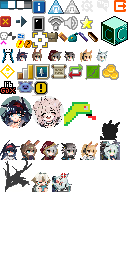
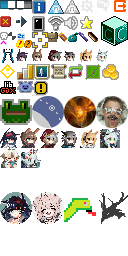
정제금속

Changed region(s): [[0.0, 0.375, 1.0, 0.875], [0.7812, 0.75, 1.0, 0.875], [0.5, 0.75, 0.75, 0.875]]

diff --git a/Arrrknights/core/src/main/java/com/shatteredpixel/shatteredpixeldungeon/ui/Icons.java b/Arrrknights/core/src/main/java/com/shatteredpixel/shatteredpixeldungeon/ui/Icons.java
@@ -87,6 +87,9 @@ public enum Icons {
 	CUBE_CODE,
 	PURIGRO,
 	ARCNOR,
+	ARKPD,
+	NAMSEK,
+	MIZQ,
 
 	BLAZE,
 	AMIYA,
@@ -120,13 +123,13 @@ public enum Icons {
 			icon.frame( icon.texture.uvRect( 64, 0, 80, 14 ) );
 			break;
 		case PREFS:
-			icon.frame( icon.texture.uvRect( 80, 0, 94, 14 ) );
+			icon.frame( icon.texture.uvRect( 80, 0, 94, 12 ) );
 			break;
 		case LANGS:
-			icon.frame( icon.texture.uvRect( 96, 0, 110, 11 ) );
+			icon.frame( icon.texture.uvRect( 96, 0, 110, 12 ) );
 			break;
 		case EXIT:
-			icon.frame( icon.texture.uvRect( 112, 0, 127, 11 ) );
+			icon.frame( icon.texture.uvRect( 112, 0, 127, 12 ) );
 			break;
 		case CLOSE:
 			icon.frame( icon.texture.uvRect( 0, 16, 11, 27 ) );
@@ -184,7 +187,7 @@ public enum Icons {
 			break;
 			
 		case DEPTH:
-			icon.frame( icon.texture.uvRect( 0, 48, 13, 64 ) );
+			icon.frame( icon.texture.uvRect( 0, 48, 14, 64 ) );
 			break;
 		case WARRIOR:
 			icon.frame( icon.texture.uvRect( 16, 48, 32, 61 ) );
@@ -202,34 +205,6 @@ public enum Icons {
 				icon.frame( icon.texture.uvRect( 96, 48, 112, 61 ) );
 				break;
 
-			case BLAZE:
-				icon.frame(icon.texture.uvRect(0, 140, 20, 160));
-				break;
-			case AMIYA:
-				icon.frame(icon.texture.uvRect(20, 140, 40, 160));
-				break;
-			case P_RED:
-				icon.frame(icon.texture.uvRect(40, 140, 60, 160));
-				break;
-			case GREY:
-				icon.frame(icon.texture.uvRect(60, 140, 80, 160));
-				break;
-			case NEARL:
-				icon.frame(icon.texture.uvRect(80, 140, 100, 160));
-				break;
-			case ROSEMARI:
-				icon.frame(icon.texture.uvRect(100, 140, 120, 160));
-				break;
-
-			case HYPER:
-				icon.frame(icon.texture.uvRect(0, 160, 32, 192));
-				icon.scale.set(PixelScene.align(0.49f));
-				break;
-			case MONNY:
-				icon.frame(icon.texture.uvRect(32, 172, 52, 192));
-				break;
-
-
 			case ENTER:
 			icon.frame( icon.texture.uvRect( 0, 64, 16, 80 ) );
 			break;
@@ -246,8 +221,7 @@ public enum Icons {
 			icon.frame( icon.texture.uvRect( 68, 64, 83, 79 ) );
 			break;
 		case SHPX:
-			icon.frame( icon.texture.uvRect( 0, 96, 32, 128 ) );
-			icon.scale.set(PixelScene.align(0.49f));
+			icon.frame( icon.texture.uvRect( 85, 64, 101, 80 ) );
 			break;
 		case GOLD:
 			icon.frame( icon.texture.uvRect( 102, 64, 119, 80 ) );
@@ -263,31 +237,70 @@ public enum Icons {
 			icon.frame(icon.texture.uvRect(34, 81, 48, 95));
 			break;
 
-			case PATRIOT:
-				icon.frame(icon.texture.uvRect(48, 80, 64, 96));
+			case CUBE_CODE:
+				icon.frame( icon.texture.uvRect( 101, 16, 128, 46 ) );
+				icon.scale.set(PixelScene.align(0.49f));
 				break;
 
 
-		case ALEKS:
-			icon.frame( icon.texture.uvRect( 32, 96, 64, 128 ) );
-			icon.scale.set(PixelScene.align(0.49f));
-			break;
-		case CHARLIE:
-			icon.frame( icon.texture.uvRect( 64, 96, 96, 128 ) );
-			icon.scale.set(PixelScene.align(0.49f));
-			break;
-		case ARCNOR:
-			icon.frame( icon.texture.uvRect( 64, 96, 96, 128 ) );
-			icon.scale.set(PixelScene.align(0.49f));
-			break;
-		case PURIGRO:
-			icon.frame( icon.texture.uvRect( 96, 96, 128, 128 ) );
-			icon.scale.set(PixelScene.align(0.49f));
-			break;
-		case CUBE_CODE:
-			icon.frame( icon.texture.uvRect( 101, 16, 128, 46 ) );
-			icon.scale.set(PixelScene.align(0.49f));
-			break;
+
+			case ALEKS:
+				icon.frame( icon.texture.uvRect( 0, 96, 32, 128 ) );
+				icon.scale.set(PixelScene.align(0.49f));
+				break;
+			case CHARLIE:
+				icon.frame( icon.texture.uvRect( 32, 96, 64, 128 ) );
+				icon.scale.set(PixelScene.align(0.49f));
+				break;
+			case ARCNOR:
+				icon.frame( icon.texture.uvRect( 64, 96, 96, 128 ) );
+				icon.scale.set(PixelScene.align(0.49f));
+				break;
+			case PURIGRO:
+				icon.frame( icon.texture.uvRect( 96, 96, 128, 128 ) );
+				icon.scale.set(PixelScene.align(0.49f));
+				break;
+			//타이틀 이미지들 ↓
+			case ARKPD:
+				icon.frame( icon.texture.uvRect( 0, 192, 32, 224 ) );
+				icon.scale.set(PixelScene.align(0.49f));
+				break;
+			case NAMSEK:
+				icon.frame( icon.texture.uvRect( 32, 192, 64, 224 ) );
+				icon.scale.set(PixelScene.align(0.49f));
+				break;
+			case MIZQ:
+				icon.frame( icon.texture.uvRect( 64, 192, 96, 224 ) );
+				icon.scale.set(PixelScene.align(0.49f));
+				break;
+			case HYPER:
+				icon.frame(icon.texture.uvRect(96, 192, 128, 224));
+				icon.scale.set(PixelScene.align(0.49f));
+				break;
+
+				//캐릭터 선택창 이미지
+			case BLAZE:
+				icon.frame(icon.texture.uvRect(0, 128, 20, 148));
+				break;
+			case AMIYA:
+				icon.frame(icon.texture.uvRect(20, 128, 40, 148));
+				break;
+			case P_RED:
+				icon.frame(icon.texture.uvRect(40, 128, 60, 148));
+				break;
+			case GREY:
+				icon.frame(icon.texture.uvRect(60, 128, 80, 148));
+				break;
+			case NEARL:
+				icon.frame(icon.texture.uvRect(80, 128, 100, 148));
+				break;
+			case ROSEMARI:
+				icon.frame(icon.texture.uvRect(100, 128, 120, 148));
+				break;
+			case MONNY:
+				icon.frame(icon.texture.uvRect(0, 148, 20, 168));
+				break;
+
 
 
 		}

diff --git a/Arrrknights/core/src/main/java/com/shatteredpixel/shatteredpixeldungeon/scenes/AboutScene.java b/Arrrknights/core/src/main/java/com/shatteredpixel/shatteredpixeldungeon/scenes/AboutScene.java
@@ -64,7 +64,7 @@ public class AboutScene extends PixelScene {
 		shpxLink += "&utm_medium=about_page";
 		shpxLink += "&utm_campaign=ingame_link";
 
-		CreditsBlock shpx = new CreditsBlock(true, Window.TITLE_COLOR,
+		CreditsBlock shpx = new CreditsBlock(true, Window.SHPX_COLOR,
 				"Shattered Pixel Dungeon",
 				Icons.SHPX.get(),
 				"Developed by: _Evan Debenham_\nBased on Pixel Dungeon's open source",
@@ -73,7 +73,7 @@ public class AboutScene extends PixelScene {
 		shpx.setRect((w - fullWidth)/2f, 6, 120, 0);
 		content.add(shpx);
 
-		CreditsBlock alex = new CreditsBlock(false, Window.TITLE_COLOR,
+		CreditsBlock alex = new CreditsBlock(false, Window.SHPX_COLOR,
 				"Hero Art & Design:",
 				Icons.ALEKS.get(),
 				"Aleksandar Komitov",
@@ -87,7 +87,7 @@ public class AboutScene extends PixelScene {
 		}
 		content.add(alex);
 
-		CreditsBlock charlie = new CreditsBlock(false, Window.TITLE_COLOR,
+		CreditsBlock charlie = new CreditsBlock(false, Window.SHPX_COLOR,
 				"Sound Effects:",
 				Icons.CHARLIE.get(),
 				"Charlie",
@@ -99,9 +99,9 @@ public class AboutScene extends PixelScene {
 
 
 
-		CreditsBlock rogu = new CreditsBlock(true, Window.TITLE_COLOR,
+		CreditsBlock rogu = new CreditsBlock(true, Window.ARKPD_COLOR,
 				"Tomorrow's RogueNights",
-				Icons.SHPX.get(),
+				Icons.ARKPD.get(),
 				"Developed by: _Team Rosemari_\nBased on Shattered Pixel Dungeon's open source",
 				"",
 				null);
@@ -109,9 +109,9 @@ public class AboutScene extends PixelScene {
 		content.add(rogu);
 
 
-		CreditsBlock nam = new CreditsBlock(false, Window.TITLE_COLOR,
+		CreditsBlock nam = new CreditsBlock(false, Window.ARKPD_COLOR,
 				"Hero Art & Design:",
-				Icons.ALEKS.get(),
+				Icons.NAMSEK.get(),
 				"NamSek",
 				"pixiv.net",
 				"https://www.pixiv.net/users/14086167");
@@ -123,9 +123,9 @@ public class AboutScene extends PixelScene {
 		}
 		content.add(nam);
 
-		CreditsBlock mizq = new CreditsBlock(false, Window.TITLE_COLOR,
+		CreditsBlock mizq = new CreditsBlock(false, Window.SHPX_COLOR,
 				"Programming:",
-				Icons.CHARLIE.get(),
+				Icons.MIZQ.get(),
 				"mizq4482",
 				"blog",
 				"https://mizq4482.tistory.com/");
@@ -151,7 +151,6 @@ public class AboutScene extends PixelScene {
 		content.add(hyper);
 
 		addLine(hyper.top() - 4, content);
-
 
 		//*** libGDX Credits ***
 
@@ -180,7 +179,7 @@ public class AboutScene extends PixelScene {
 
 		CreditsBlock arcnor = new CreditsBlock(false, GDX_COLOR,
 				"Pixel Dungeon GDX:",
-				Icons.LIBGDX.get(),
+				Icons.ARCNOR.get(),
 				"Edu García",
 				"twitter.com/arcnor",
 				"https://twitter.com/arcnor");
@@ -194,7 +193,7 @@ public class AboutScene extends PixelScene {
 
 		CreditsBlock purigro = new CreditsBlock(false, GDX_COLOR,
 				"Shattered GDX Help:",
-				Icons.LIBGDX.get(),
+				Icons.PURIGRO.get(),
 				"Kevin MacMartin",
 				"github.com/prurigro",
 				"https://github.com/prurigro/");
@@ -218,6 +217,20 @@ public class AboutScene extends PixelScene {
 		content.add(wata);
 
 		addLine(wata.top() - 4, content);
+
+		CreditsBlock cube = new CreditsBlock(false, WATA_COLOR,
+				"Music:",
+				Icons.CUBE_CODE.get(),
+				"Cube Code",
+				null,
+				null);
+		cube.setSize(colWidth/2f, 0);
+		if (landscape()){
+			cube.setPos(wata.right(), wata.top() + (wata.height() - cube.height())/2f);
+		} else {
+			cube.setPos(wata.left(), wata.bottom()+5);
+		}
+		content.add(cube);
 
 
 		//*** Transifex Credits ***

diff --git a/Arrrknights/core/src/main/java/com/shatteredpixel/shatteredpixeldungeon/actors/hero/HeroClass.java b/Arrrknights/core/src/main/java/com/shatteredpixel/shatteredpixeldungeon/actors/hero/HeroClass.java
@@ -59,6 +59,8 @@ import com.shatteredpixel.shatteredpixeldungeon.items.potions.PotionOfLiquidFlam
 import com.shatteredpixel.shatteredpixeldungeon.items.potions.PotionOfMindVision;
 import com.shatteredpixel.shatteredpixeldungeon.items.potions.PotionOfStrength;
 import com.shatteredpixel.shatteredpixeldungeon.items.potions.elixirs.ElixirOfMight;
+import com.shatteredpixel.shatteredpixeldungeon.items.quest.MetalShard;
+import com.shatteredpixel.shatteredpixeldungeon.items.quest.Nullshield;
 import com.shatteredpixel.shatteredpixeldungeon.items.rings.RingOfMight;
 import com.shatteredpixel.shatteredpixeldungeon.items.scrolls.ScrollOfIdentify;
 import com.shatteredpixel.shatteredpixeldungeon.items.scrolls.ScrollOfLullaby;
@@ -253,11 +255,14 @@ public enum HeroClass {
 
 		new DewVial().collect();
 
-		/*TomeOfMastery ski;
-		ski = new TomeOfMastery();
+		Nullshield ski;
+		ski = new Nullshield();
 		ski.quantity(1).collect();
+		MetalShard ski1;
+		ski1 = new MetalShard();
+		ski1.quantity(1).collect();
 
-		WandOfTransfusion wandOfTransfusion;
+		/*WandOfTransfusion wandOfTransfusion;
 		wandOfTransfusion = new WandOfTransfusion();
 		wandOfTransfusion.quantity(1).collect();
 

diff --git a/Arrrknights/core/src/main/java/com/shatteredpixel/shatteredpixeldungeon/windows/WndSupportPrompt.java b/Arrrknights/core/src/main/java/com/shatteredpixel/shatteredpixeldungeon/windows/WndSupportPrompt.java
@@ -41,7 +41,7 @@ public class WndSupportPrompt extends Window {
 
 		int width = PixelScene.landscape() ? WIDTH_L : WIDTH_P;
 
-		IconTitle title = new IconTitle(Icons.get(Icons.SHPX), Messages.get(WndSupportPrompt.class, "title"));
+		IconTitle title = new IconTitle(Icons.get(Icons.NAMSEK), Messages.get(WndSupportPrompt.class, "title"));
 		title.setRect( 0, 0, width, 0 );
 		add(title);
 

diff --git a/Arrrknights/core/src/main/java/com/shatteredpixel/shatteredpixeldungeon/ui/Window.java b/Arrrknights/core/src/main/java/com/shatteredpixel/shatteredpixeldungeon/ui/Window.java
@@ -49,6 +49,7 @@ public class Window extends Group implements Signal.Listener<KeyEvent> {
 	public static final int WHITE = 0xFFFFFF;
 	public static final int TITLE_COLOR = 0xFFFF44;
 	public static final int ARKPD_COLOR = 0x7EA19E;
+	public static final int SHPX_COLOR = 0x33BB33;
 	
 	public Window() {
 		this( 0, 0, 0, Chrome.get( Chrome.Type.WINDOW ) );

diff --git a/Arrrknights/core/src/main/java/com/shatteredpixel/shatteredpixeldungeon/scenes/TitleScene.java b/Arrrknights/core/src/main/java/com/shatteredpixel/shatteredpixeldungeon/scenes/TitleScene.java
@@ -168,7 +168,7 @@ public class TitleScene extends PixelScene {
 				TomorrowRogueNight.switchScene( AboutScene.class );
 			}
 		};
-		btnAbout.icon(Icons.get(Icons.SHPX));
+		btnAbout.icon(Icons.get(Icons.ARKPD));
 		add(btnAbout);
 		
 		final int BTN_HEIGHT = 20;

diff --git a/Arrrknights/core/src/main/java/com/shatteredpixel/shatteredpixeldungeon/scenes/SupporterScene.java b/Arrrknights/core/src/main/java/com/shatteredpixel/shatteredpixeldungeon/scenes/SupporterScene.java
@@ -130,7 +130,7 @@ public class SupporterScene extends PixelScene {
 			text = PixelScene.renderTextBlock(message, 6);
 			add(text);
 
-			icon = Icons.get(Icons.SHPX);
+			icon = Icons.get(Icons.NAMSEK);
 			add(icon);
 
 		}
